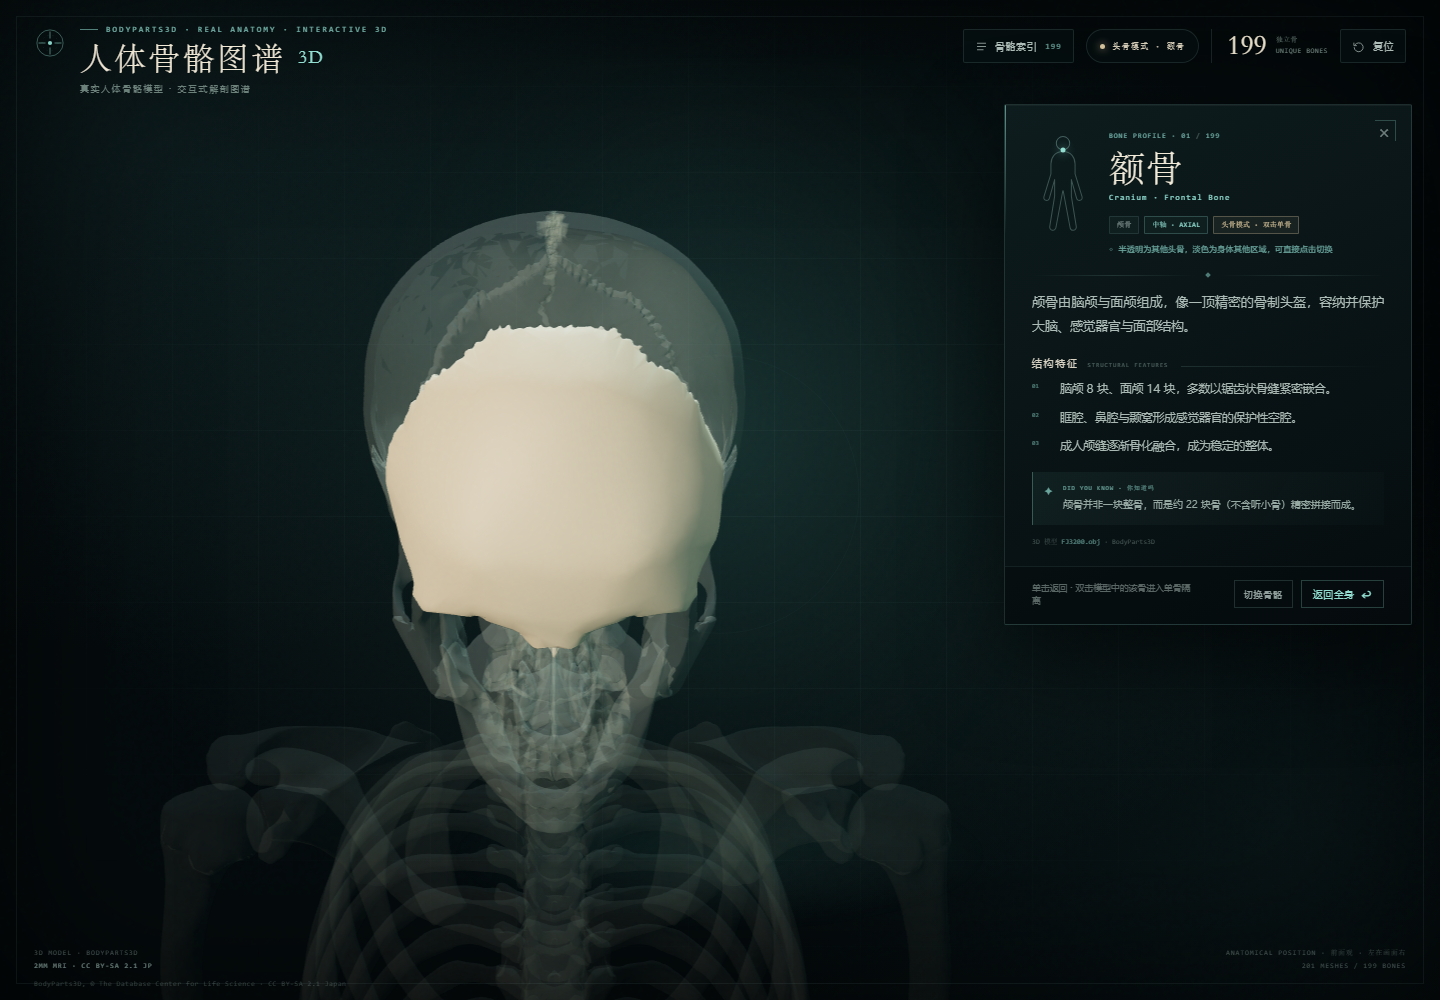
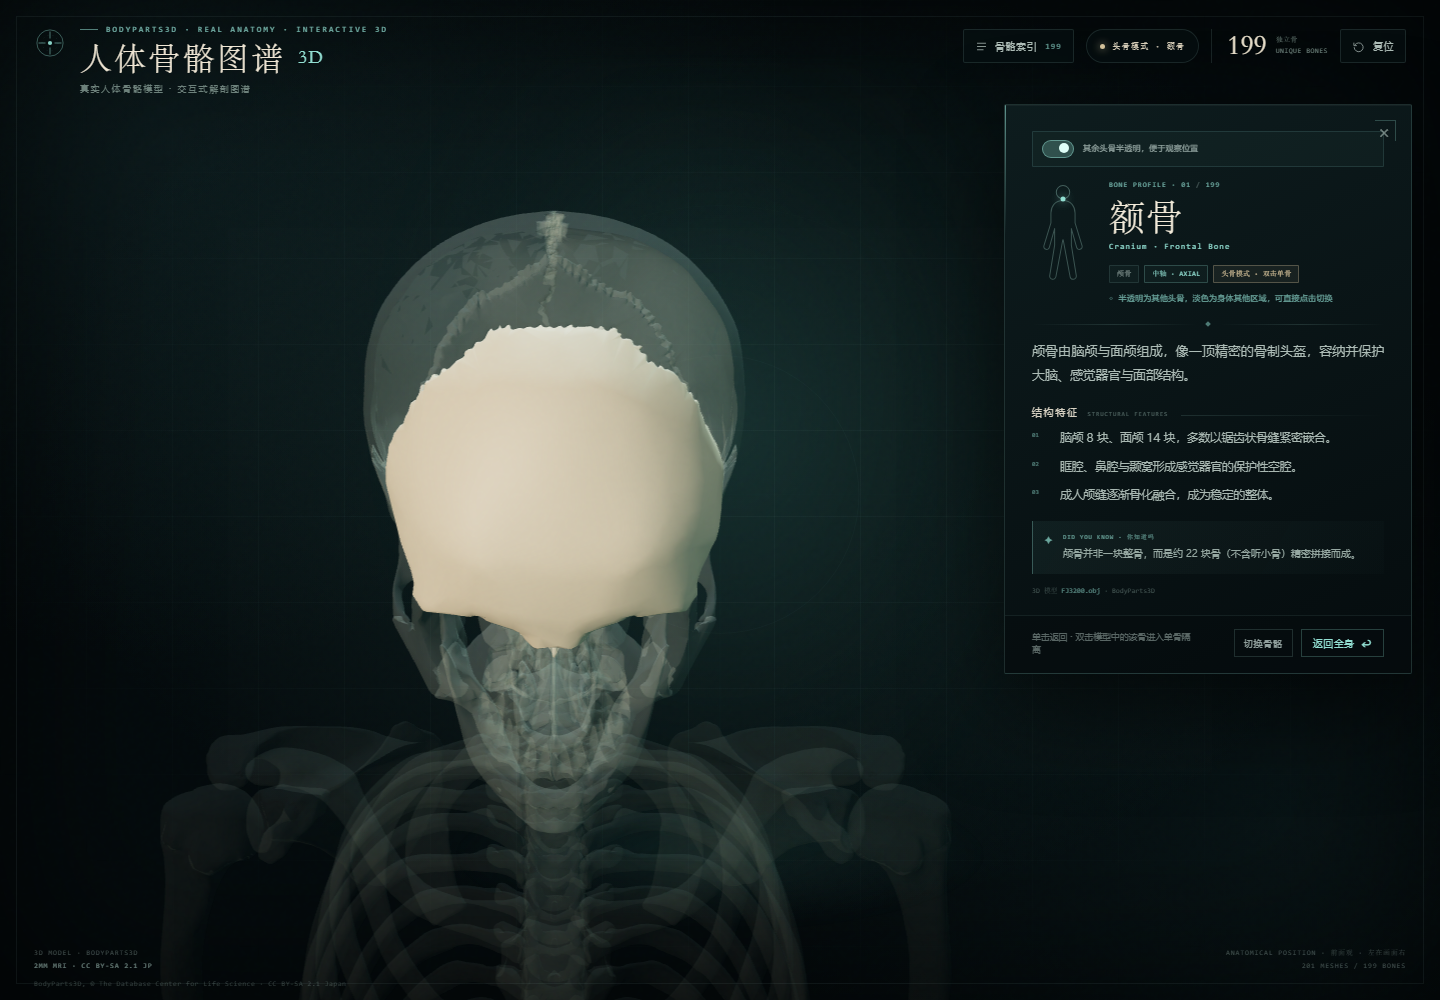
Add skull transparency toggle

Changed region(s): [[0.7188, 0.124, 0.9688, 0.589], [0.7188, 0.589, 0.9688, 0.651]]

diff --git a/js/app.js b/js/app.js
@@ -55,6 +55,9 @@
     boneIsolate: $("boneIsolate"),
     modeHint: $("modeHint"),
     switchBtn: $("switchBtn"),
+    skullTransparency: $("skullTransparency"),
+    skullTransparencyToggle: $("skullTransparencyToggle"),
+    skullTransparencyLabel: $("skullTransparencyLabel"),
     resetNote: $("resetNote"),
     boneDesc: $("boneDesc"),
     boneFeatures: $("boneFeatures"),
@@ -118,6 +121,7 @@
     down: null,
     warnedRotation: false,
     isolationMode: "none",
+    skullTransparency: true,
     contextIds: new Set(),
     clickTimer: 0,
     pendingBoneClick: null,
@@ -296,6 +300,15 @@
   els.indexOpen.addEventListener("click", openDrawer);
   els.mobileIndex.addEventListener("click", openDrawer);
   els.switchBtn.addEventListener("click", openDrawer);
+  els.skullTransparencyToggle.addEventListener("click", () => {
+    if (!state.selectedEntry || state.selectedEntry.category !== "skull") return;
+    state.skullTransparency = !state.skullTransparency;
+    updateSkullTransparencyToggle();
+    if (state.isolationMode !== "none") {
+      applySelectionMaterials(state.isolationMode, contextFor(state.selectedEntry));
+    }
+    refreshSkullModeUi();
+  });
   els.indexClose.addEventListener("click", () => closeDrawer());
   els.scrim.addEventListener("click", () => closeDrawer());
 
@@ -551,7 +564,7 @@
         mesh.visible = true;
         setMeshState(mesh, mode === "single" ? "single" : mode === "context" ? "isolated" : "selected");
       } else if (mode === "single") {
-        if (selectedIsSkull && meshEntry && meshEntry.category === "skull") {
+        if (selectedIsSkull && state.skullTransparency && meshEntry && meshEntry.category === "skull") {
           /* 头骨单骨隔离：其余头骨半透明，便于观察位置与形态 */
           mesh.visible = true;
           setMeshState(mesh, "skullGhost");
@@ -562,7 +575,7 @@
         /* 区域参照：本区域用暗色实体，其他区域保留为可点击的淡色轮廓 */
         mesh.visible = true;
         if (meshEntry && contextIds.has(meshEntry.id)) {
-          setMeshState(mesh, selectedIsSkull ? "skullGhost" : "context");
+          setMeshState(mesh, selectedIsSkull && state.skullTransparency ? "skullGhost" : "context");
         } else {
           setMeshState(mesh, "ghost");
         }
@@ -962,6 +975,37 @@
     return dir.normalize();
   }
 
+  function updateSkullTransparencyToggle() {
+    const on = state.skullTransparency;
+    els.skullTransparencyToggle.setAttribute("aria-checked", on ? "true" : "false");
+    els.skullTransparencyToggle.title = on
+      ? "开启：其余头骨半透明；关闭：恢复实体/隐藏"
+      : "已关闭半透明：区域参照中其余头骨为实体，单骨隔离中其余头骨隐藏";
+    els.skullTransparencyLabel.textContent = on
+      ? "其余头骨半透明，便于观察位置"
+      : "其余头骨不透明 / 隐藏";
+  }
+
+  function refreshSkullModeUi() {
+    if (!state.selectedEntry || state.selectedEntry.category !== "skull") return;
+    const isSingle = state.isolationMode === "single";
+    const on = state.skullTransparency;
+
+    if (isSingle) {
+      els.boneIsolate.textContent = on ? "单骨隔离 · 头骨半透明" : "单骨隔离 · 仅当前骨";
+      els.boneIsolate.title = on ? "其余头骨半透明，便于观察位置与形态" : "其余头骨已隐藏";
+      els.modeHint.hidden = !on;
+      els.modeHint.textContent = on ? "半透明为其他头骨，便于观察位置与形态" : "";
+    } else {
+      els.modeHint.hidden = false;
+      els.modeHint.textContent = on
+        ? "半透明为其他头骨，淡色为身体其他区域，可直接点击切换"
+        : "其余头骨为暗色实体，淡色为身体其他区域，可直接点击切换";
+      els.boneIsolate.textContent = "头骨模式 · 双击单骨";
+      els.boneIsolate.title = on ? "其他头骨半透明；双击完全隔离该骨" : "其他头骨不透明；双击完全隔离该骨";
+    }
+  }
+
   function selectEntry(entry, opts = {}) {
     clearPendingClick();
     state.cameraKeys.clear();
@@ -1026,6 +1070,11 @@
       els.statusText.textContent = `聚焦 · ${entry.label}`;
       els.resetNote.textContent = "再次点击该骨骼，或按 Esc 返回全身视图";
     }
+    els.skullTransparency.hidden = !isSkull;
+    if (isSkull) {
+      updateSkullTransparencyToggle();
+      refreshSkullModeUi();
+    }
     els.panel.setAttribute("aria-hidden", "false");
     els.panel.inert = false;
     els.statusPill.classList.add("is-focus");
@@ -1055,6 +1104,7 @@
     els.boneIsolate.hidden = true;
     els.modeHint.hidden = true;
     els.modeHint.textContent = "";
+    els.skullTransparency.hidden = true;
     els.resetNote.textContent = "再次点击该骨骼，或按 Esc 返回全身视图";
     els.panel.setAttribute("aria-hidden", "true");
     els.panel.inert = true;

diff --git a/css/style.css b/css/style.css
@@ -203,6 +203,14 @@ body.panel-open .panel{opacity:1;transform:none;pointer-events:auto}
 .panel-scroll{overflow-y:auto;overscroll-behavior:contain;padding:26px 27px 8px;scrollbar-width:thin;scrollbar-color:rgba(146,223,210,.18) transparent}
 .panel-scroll::-webkit-scrollbar{width:4px}
 .panel-scroll::-webkit-scrollbar-thumb{background:rgba(146,223,210,.18);border-radius:4px}
+.skull-transparency{display:flex;align-items:center;gap:9px;margin:0 0 13px;padding:8px 9px;border:1px solid rgba(145,222,209,.14);background:rgba(145,222,209,.035);border-radius:1px}
+.skull-transparency[hidden]{display:none}
+.transparency-switch{all:unset;cursor:pointer;position:relative;flex:0 0 auto;width:30px;height:16px;border-radius:999px;border:1px solid rgba(150,205,195,.28);background:rgba(4,10,12,.6);transition:background .2s,border-color .2s}
+.transparency-switch::after{content:"";position:absolute;left:2px;top:2px;width:10px;height:10px;border-radius:50%;background:rgba(185,203,197,.65);transition:left .2s,background .2s}
+.transparency-switch[aria-checked="true"]{background:rgba(145,222,209,.25);border-color:rgba(145,222,209,.5)}
+.transparency-switch[aria-checked="true"]::after{left:16px;background:#dffff8}
+.transparency-switch:focus-visible{outline:1px solid var(--teal);outline-offset:2px}
+.transparency-copy{font-size:8px;line-height:1.45;letter-spacing:.03em;color:rgba(185,203,197,.78)}
 .panel-head{display:flex;align-items:flex-start;gap:15px;margin-bottom:14px;padding-right:20px}
 .locator{position:relative;width:62px;height:104px;flex:0 0 auto;margin-top:2px}
 .locator svg{width:100%;height:100%;overflow:visible}
@@ -368,6 +376,8 @@ body.single-isolated .halo{opacity:.42}
   .topbar{transition:opacity .35s}
   .panel-scroll{padding:20px 20px 6px}
   .panel-head{gap:11px;margin-bottom:10px}
+  .skull-transparency{margin-bottom:10px;padding:7px 8px;gap:8px}
+  .transparency-copy{font-size:7.5px}
   .locator{width:48px;height:86px}
   .bone-name{font-size:27px}
   .bone-latin{font-size:7px}

diff --git a/index.html b/index.html
@@ -91,6 +91,10 @@
   <aside class="panel" id="panel" aria-hidden="true" aria-label="骨骼详细信息">
     <button class="panel-close" id="panelClose" type="button" aria-label="关闭详情并返回全身视图">×</button>
     <div class="panel-scroll">
+      <div class="skull-transparency" id="skullTransparency" hidden>
+        <button class="transparency-switch" id="skullTransparencyToggle" type="button" role="switch" aria-checked="true" aria-label="其余头骨半透明模式"></button>
+        <span class="transparency-copy" id="skullTransparencyLabel">其余头骨半透明，便于观察位置</span>
+      </div>
       <div class="panel-head">
         <div class="locator" aria-hidden="true">
           <svg viewBox="0 0 64 112" fill="none">

diff --git a/README.md b/README.md
@@ -67,7 +67,8 @@
 | 右键拖拽 / Shift + 拖拽 | 平移视角 |
 | 滚轮 / 双指捏合 | 缩放 |
 | 单击任意骨骼 | **区域参照模式**：本区域显示为暗色实体，其他区域保留为淡色可点击轮廓，点击的骨块高亮 |
-| 双击任意骨骼 | **单骨隔离**：只保留被双击的那一块骨；若为头骨，其余头骨以半透明保留，便于观察位置与形态 |
+| 双击任意骨骼 | **单骨隔离**：只保留被双击的那一块骨；若为头骨，其余头骨默认以半透明保留，便于观察位置与形态 |
+| 头骨面板“其余头骨半透明”开关 | 默认开启；关闭后头骨不再半透明：区域参照中其余头骨恢复为暗色实体，单骨隔离中其余头骨隐藏 |
 | 面板“切换骨骼” | 打开骨骼索引，直接切换到其他区域，不返回全身视图 |
 | 方向键 `↑` `↓` `←` `→` | 平移虚拟摄像机与观察目标，可沿长骨上下左右移动视角；移动速度随镜头距离自动缩放 |
 | 单骨隔离后再次单击 / 按 `Esc` | 恢复全身视图 |
@@ -100,14 +101,14 @@
 | 肩带 / 上臂 / 前臂 / 腕骨 / 掌骨 / 指骨 | **同侧上肢 + 同侧手部（32 个部件）** |
 | 髋骨 / 股骨 / 髌骨 / 胫骨 / 腓骨 / 跗骨 / 跖骨 / 趾骨 | **同侧下肢（5 块，含髋骨）+ 同侧足部（31 个部件）** |
 
-双击后不受上表限制：只保留当前骨块；头骨单骨隔离时，其余头骨以半透明轮廓保留，其他身体骨骼仍隐藏。
+双击后不受上表限制：只保留当前骨块；头骨单骨隔离时，其余头骨默认以半透明轮廓保留，其他身体骨骼仍隐藏。头骨信息栏最上方的开关可以关闭半透明模式，关闭后不再显示半透明头骨。
 
 ## 相比参考版本的改进
 
 - 不再使用手绘 SVG，替换为 **BodyParts3D 真实 3D 骨骼模型**。
 - 增加 **镜头聚焦、再次点击复位、点击空白复位、Esc 复位**。
 - 全身统一为 **区域参照** 模式：本区域为暗色实体，其他区域为淡色可点击轮廓，可直接切换而无需回到全身。
-- **双击任意骨骼** 可进入 **单骨隔离**，适合观察单块骨的形态与特征；头骨单骨隔离会保留其他头骨的半透明轮廓，便于定位。
+- **双击任意骨骼** 可进入 **单骨隔离**，适合观察单块骨的形态与特征；头骨单骨隔离会保留其他头骨的半透明轮廓，便于定位，并可在信息栏顶部开关关闭半透明模式。
 - **方向键平移摄像机**：上下左右移动观察位置，速度随镜头距离自动缩放，便于逐段观察股骨、胫骨等长骨。
 - 重做界面：深色解剖图谱视觉、暖白骨骼材质、冷暖轮廓光。
 - 新增 **199 条可搜索骨骼索引**、分区筛选、结果计数与滚动定位。

diff --git a/简介与使用说明.md b/简介与使用说明.md
@@ -13,7 +13,7 @@
 - **真实模型**：BodyParts3D 真实人体 MRI 重建，201 个骨骼模型部件；
 - **直接打开**：所有模型已内嵌，双击 `index.html` 即可运行，不需要服务器；
 - **区域参照**：单击骨骼后本区域为暗色实体，其他区域为淡色轮廓，可直接点击切换，选中骨高亮；
-- **单骨隔离**：双击任意骨骼，只显示该骨；头骨会保留其余头骨的半透明轮廓；
+- **单骨隔离**：双击任意骨骼，只显示该骨；头骨会保留其余头骨的半透明轮廓，并可在信息栏顶部关闭半透明；
 - **长骨观察**：方向键平移镜头，移动速度随缩放距离自动调整；
 - **快速检索**：199 条骨骼索引，支持中文名、英文名、分区筛选和深链接；
 - **桌面与手机适配**：手机端骨骼档案使用底部抽屉，索引使用全屏抽屉。
@@ -70,6 +70,7 @@
   - 例如单击胸骨：胸廓和胸骨为暗色参照。
 - **切换其他区域**：直接点击淡色轮廓，或点击面板底部的 **“切换骨骼”** 打开索引；选中其他骨骼后会直接进入新区域，不会先回到全身。
 - **双击骨骼**：进入 **单骨隔离**。非头骨区域只显示该骨；头骨会保留其余头骨的半透明轮廓，便于观察当前位置与形态。
+- **头骨半透明开关**：头骨信息栏最上方有一个开关，默认开启。开启时其余头骨半透明；关闭后区域参照中其余头骨变为暗色实体，单骨隔离中其余头骨隐藏。
 - **再次单击同一骨骼 / 按 `Esc`**：回到全身视图。
 
 > 单击和双击通过点击间隔区分，单击会有约 260ms 的确认延迟；双击请快速连续点击两次。
@@ -117,7 +118,7 @@
 |---|---|---|
 | 全身视图 | 初始状态 / 复位 | 全部 201 个模型部件 |
 | 区域参照 | 单击骨骼 | 本区域为暗色实体，其他区域为淡色可点击轮廓，选中骨高亮 |
-| 单骨隔离 | 双击骨骼 | 只显示当前骨块；头骨保留其余头骨的半透明轮廓 |
+| 单骨隔离 | 双击骨骼 | 只显示当前骨块；头骨默认保留其余头骨的半透明轮廓，可通过顶部开关关闭 |
 
 ![单骨隔离：额骨，其余头骨半透明](preview-3d-skull-single.png)
 
